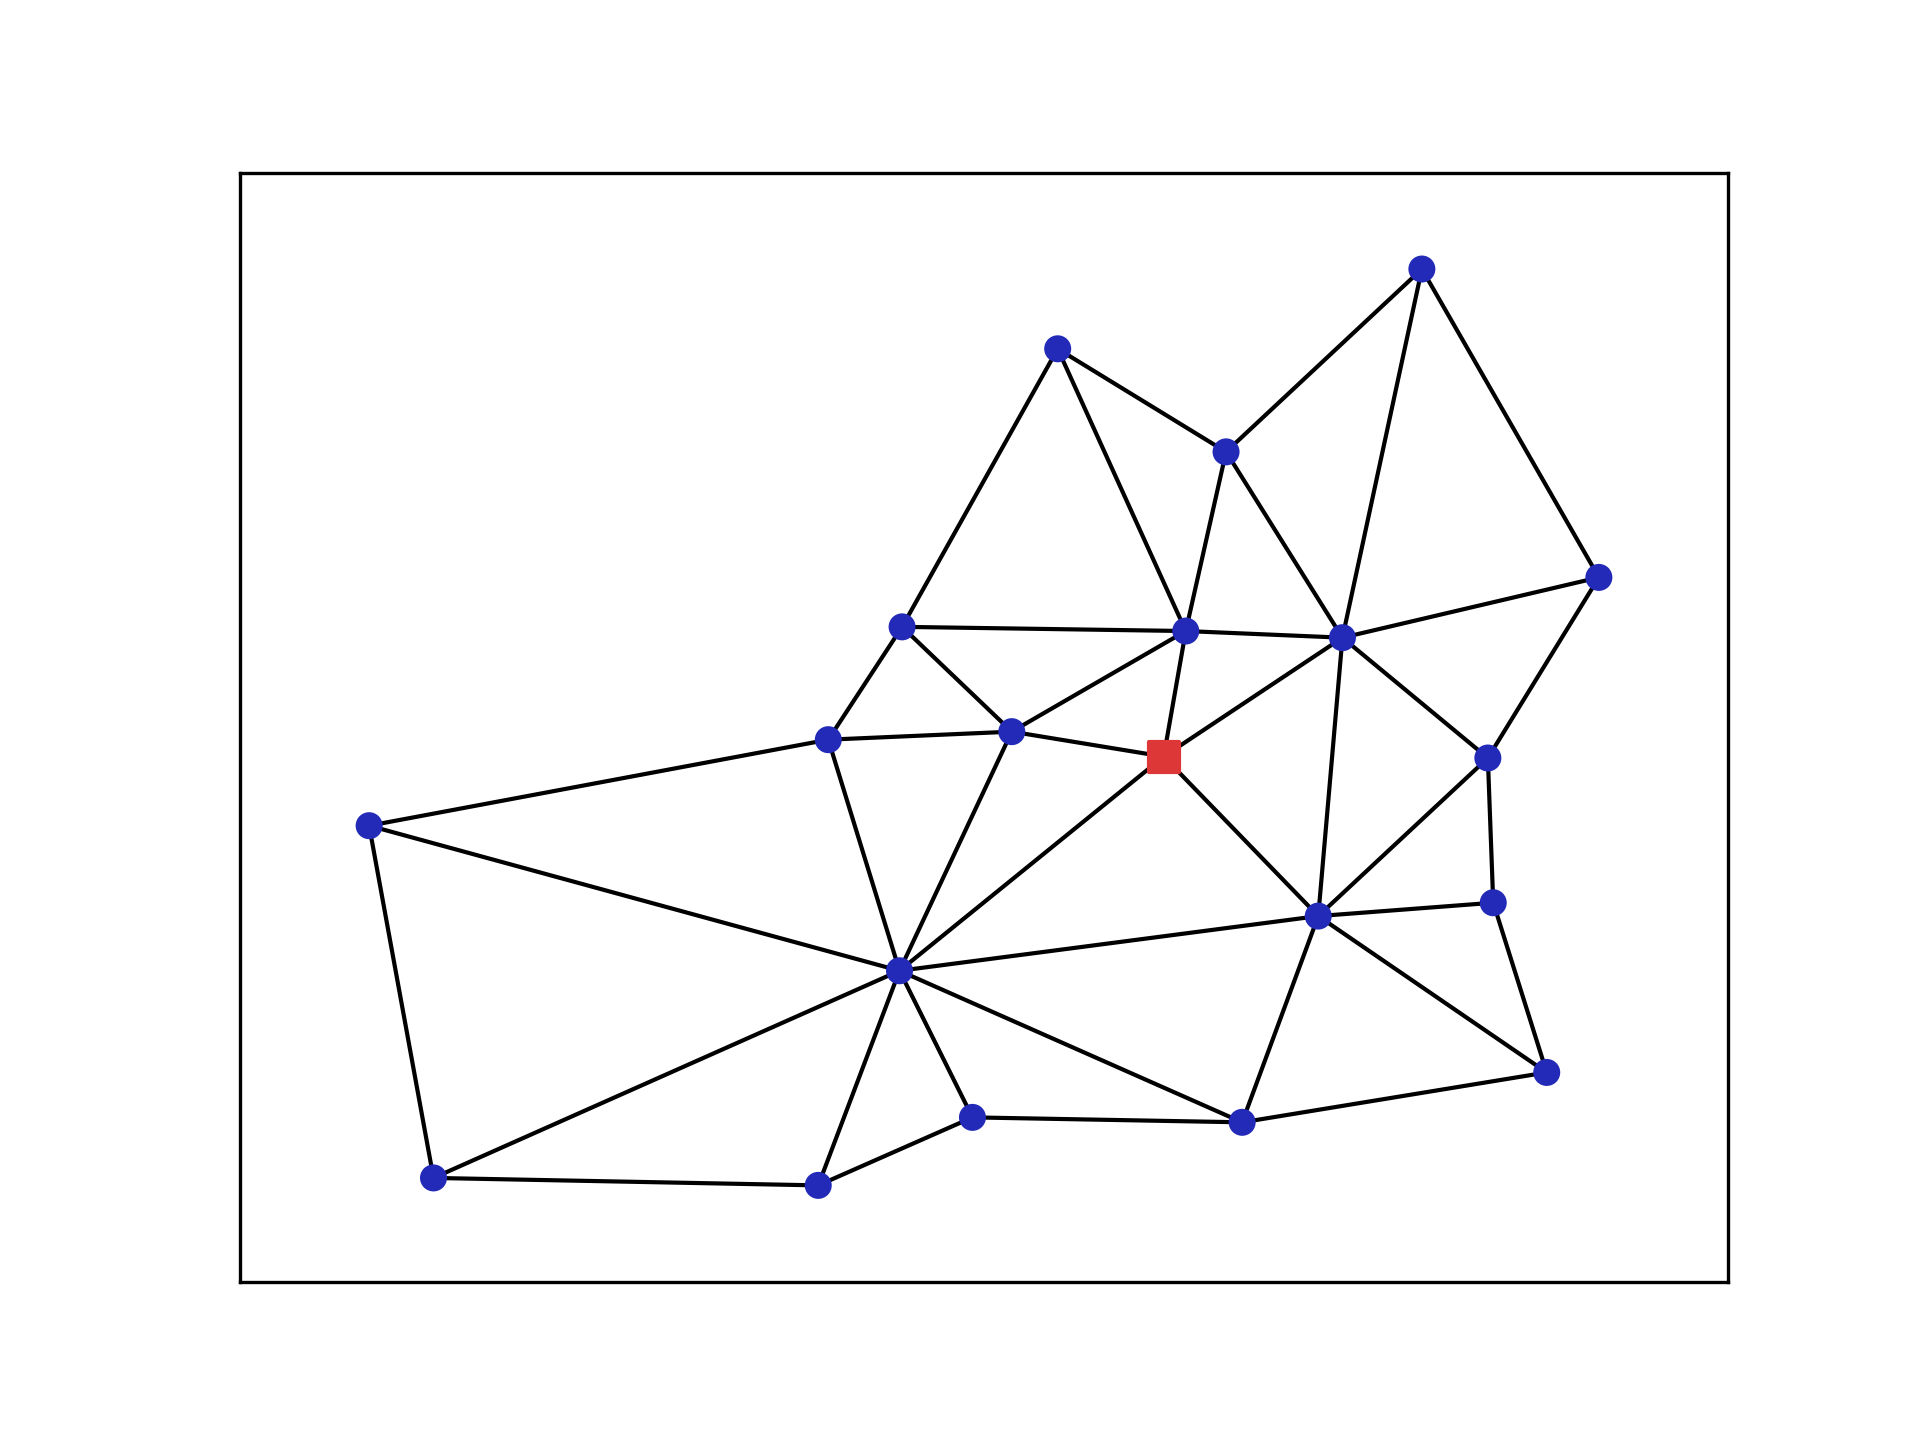
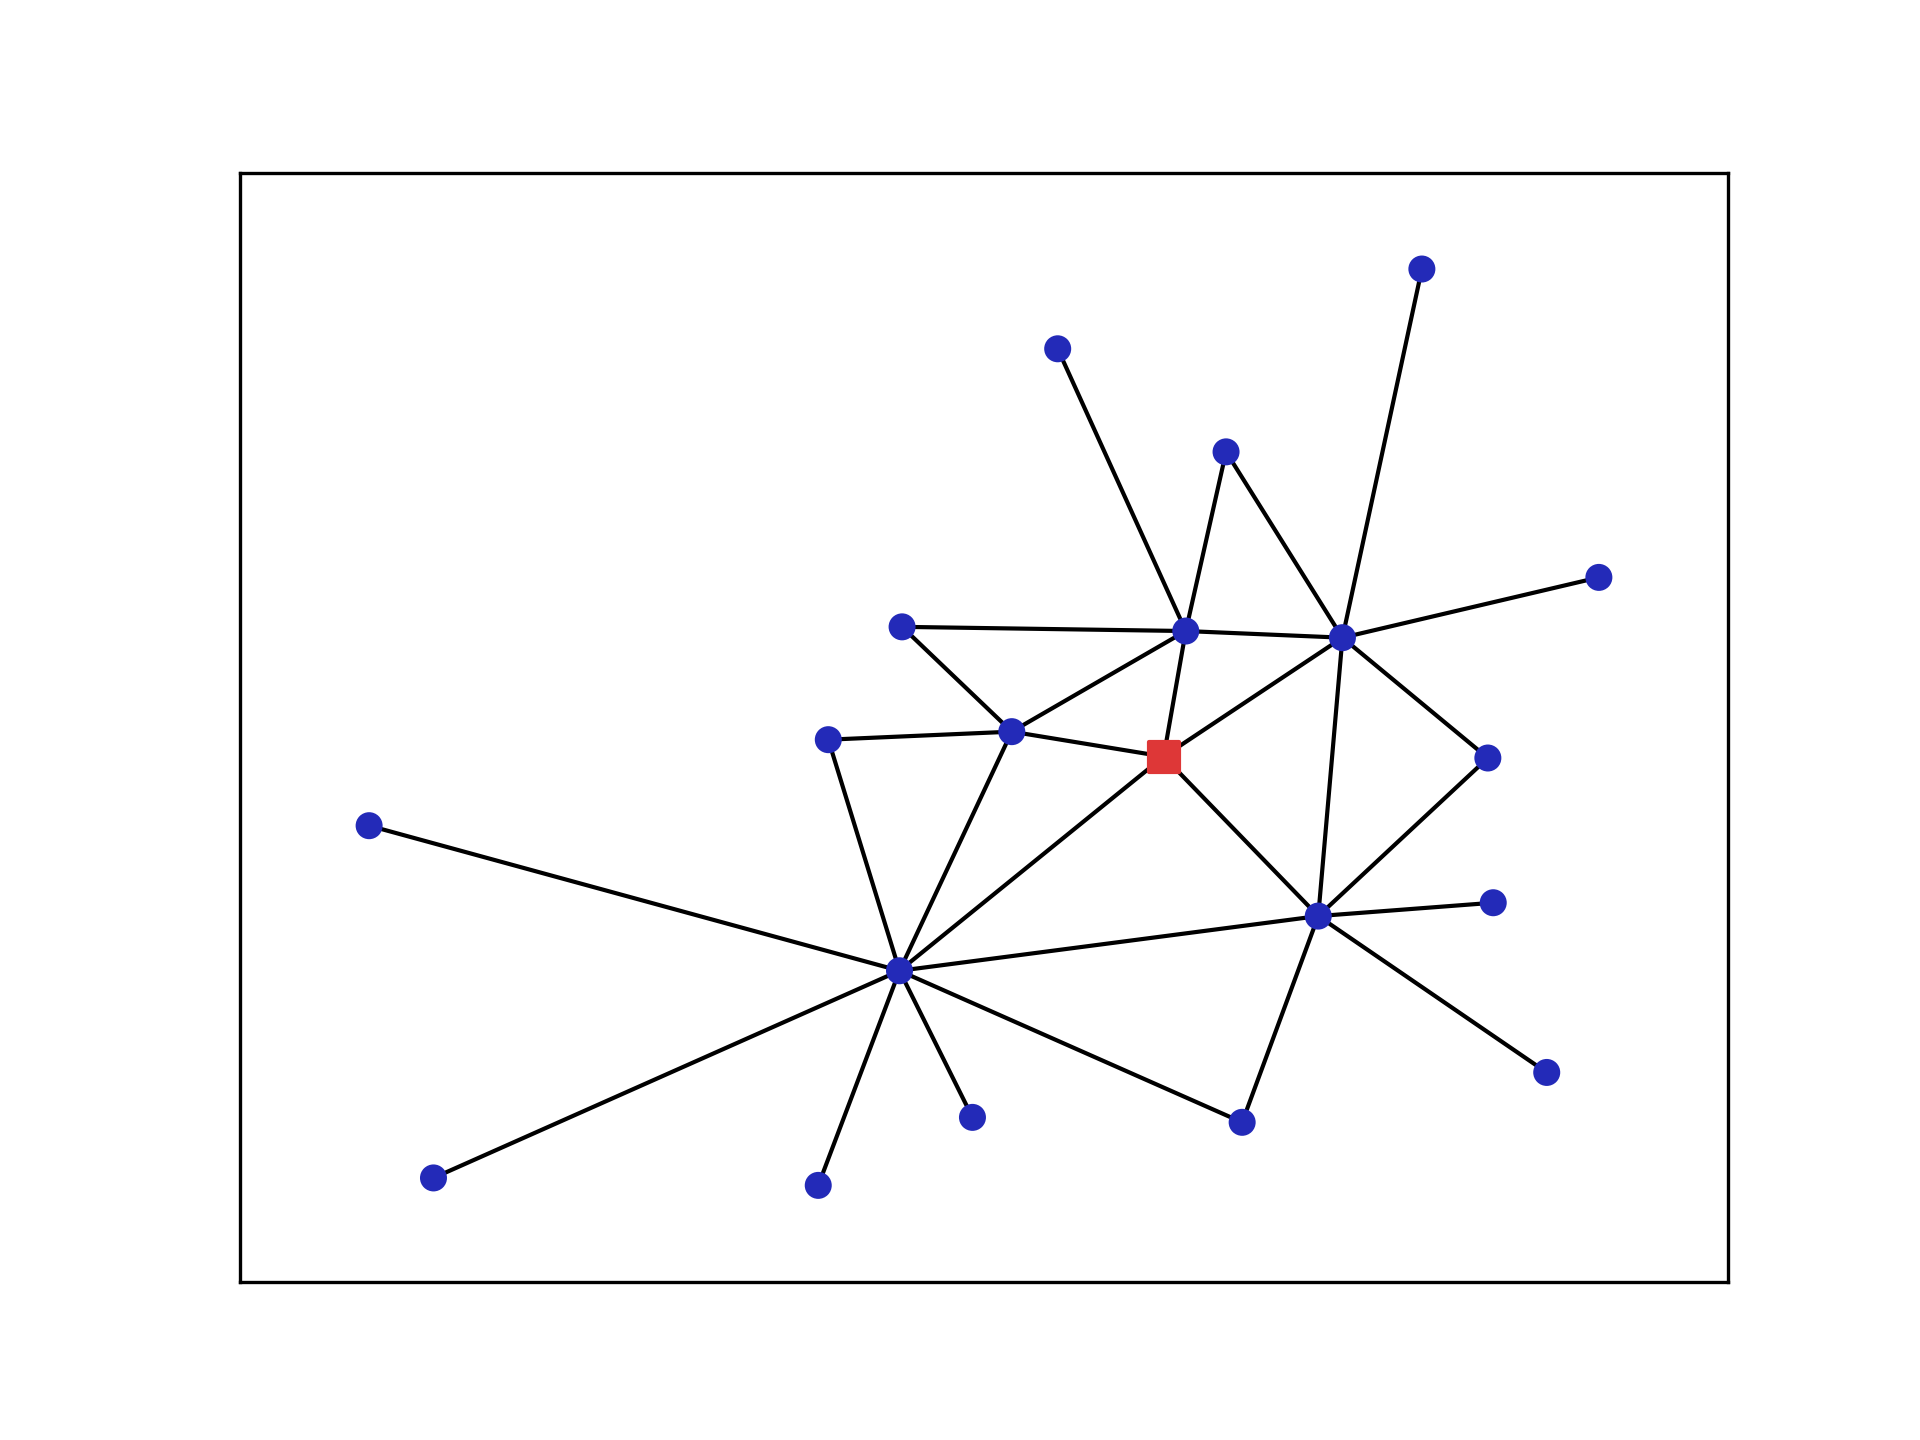
stupid mistake in subproblem generator, there was some edge which we did not want to

diff --git a/IsolatingData.py b/IsolatingData.py
@@ -149,8 +149,15 @@ def Write_Draw(Input: InputStructure, Output: OutputStructure):
             NewPositions.update({ALLNode[x]:Input.Pos[x]})
 
 
+    New_A = np.copy(Input.A)
+    for x in range(Input.n):
+        for y in range(Input.n):
+            if Output.X[x][y]>0.5:
+                New_A[x,y] = 1
+            else:
+                New_A[x,y] = 0
 
-    New_A = np.delete(Input.A,NodeNotInList, 0)
+    New_A = np.delete(New_A,NodeNotInList, 0)
     New_A = np.delete(New_A,NodeNotInList, 1)
 
     New_X = np.delete(Input.X,NodeNotInList, 0)

diff --git a/main.py b/main.py
@@ -32,7 +32,7 @@ def RunWithOld():
     for x in range(St, Ed):
         InputDt = read_data(x, INCLUDE_OLD = True)
 
-        InputDt.Lmt = int(InputDt.Lmt*0.2)
+        InputDt.Lmt = int(InputDt.Lmt*0.9)
 
         #InputDt.show()
         ResultDt = Gurobi_Solve(InputDt)
